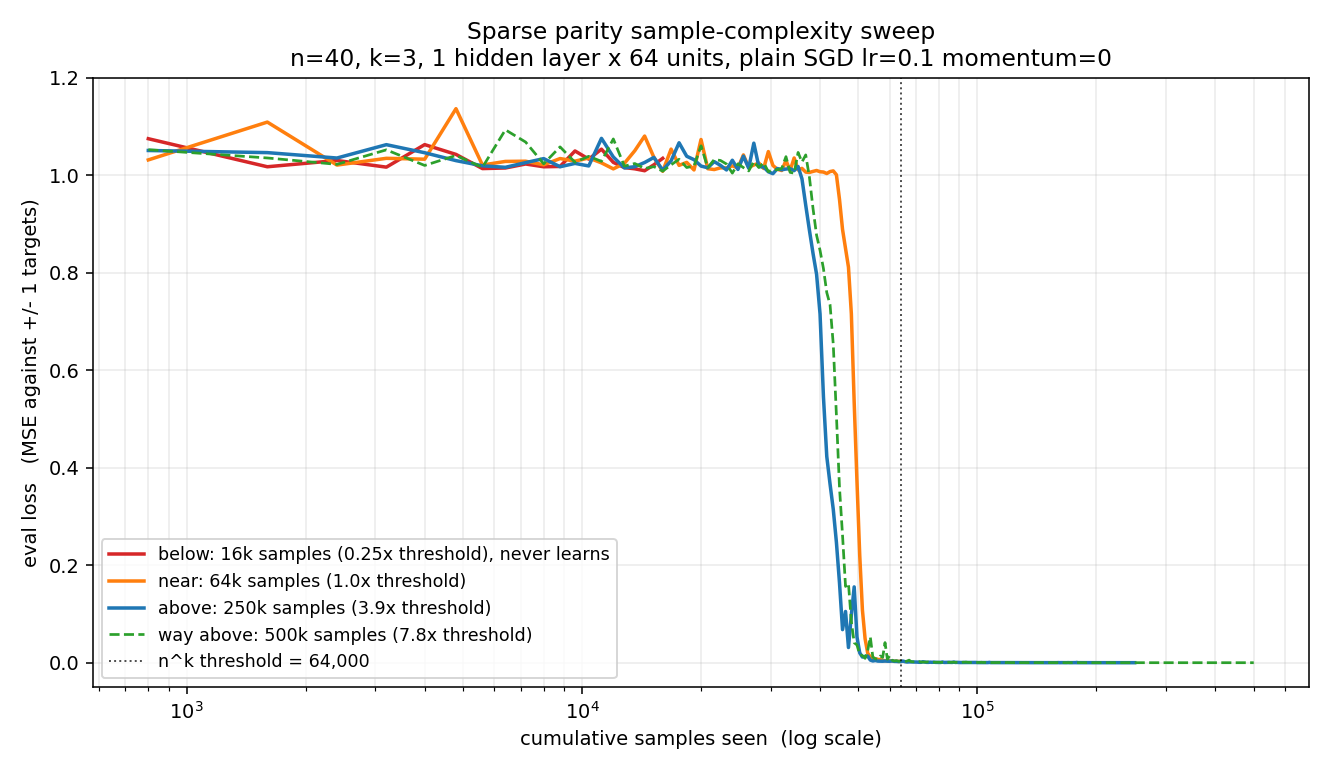
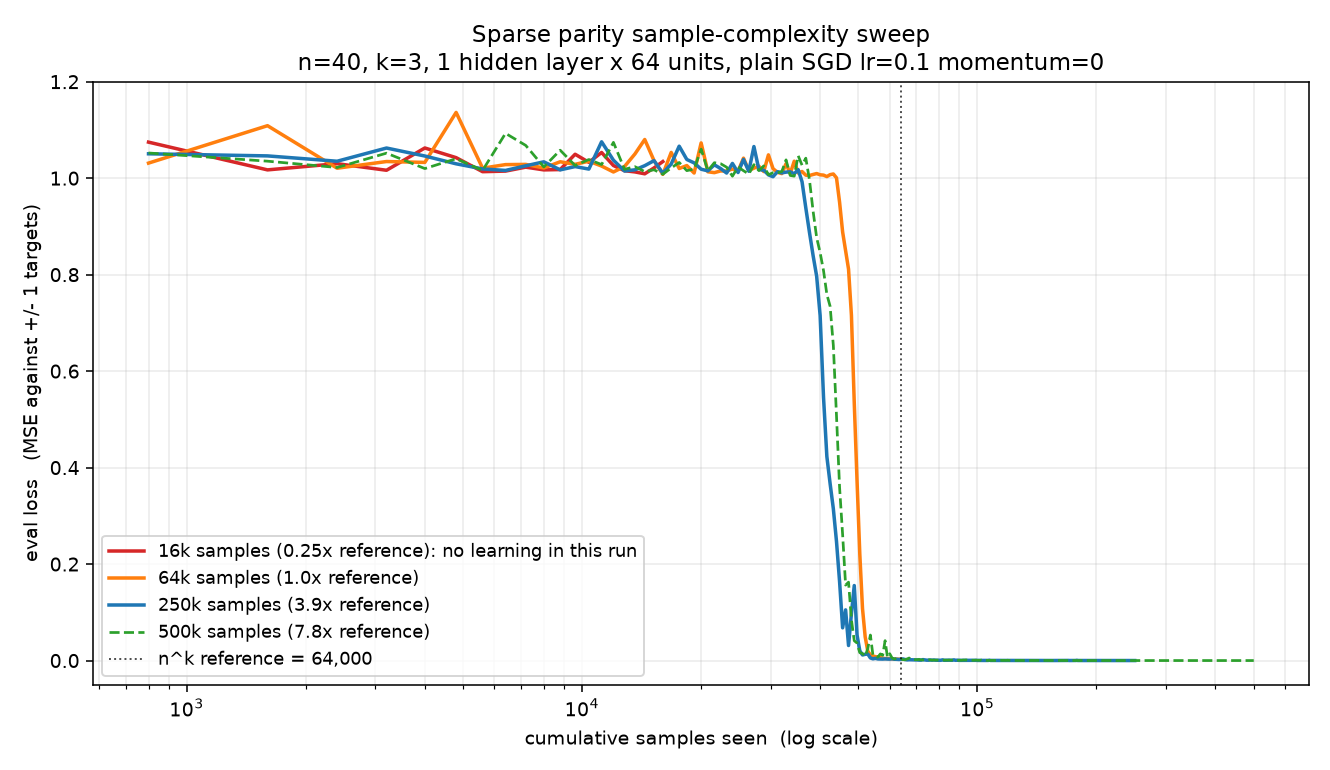
Clarify SQ bound and sparse-parity evidence (#2)
* Clarify SQ bound and sparse-parity evidence

* Describe fixed-pool draws as sampling with replacement

* Align experiment guidance and chart with SQ interpretation

* Keep trainer logic separate from sample-budget fix

* Correct fixed-pool trainer comment

diff --git a/plot.py b/plot.py
@@ -2,8 +2,8 @@
 
     results/sweep_plot.png
         Eval loss vs cumulative samples across the four sweep runs, log-x,
-        with the n^k = 64,000 threshold marked. Shows flat-then-drop above
-        threshold and flat-forever below.
+        with n^k = 64,000 marked as a reference scale. Shows the four
+        observed trajectories, one seed at each budget.
 
     results/fourier_staircase.png
         All 2^k = 8 subset correlations of the network output with the
@@ -25,7 +25,7 @@ import matplotlib.pyplot as plt
 
 
 RESULTS = Path("results")
-THRESHOLD = 40 ** 3  # n^k for the sweep, n=40, k=3.
+REFERENCE_SAMPLES = 40 ** 3  # n^k for the sweep, n=40, k=3.
 
 
 def load_log(path: Path) -> tuple[list[int], list[float]]:
@@ -53,16 +53,16 @@ def plot_sweep(output_path: Path) -> None:
     runs = [
         # (path, label, color, linestyle, linewidth)
         (RESULTS / "sweep_below" / "log.csv",
-         "below: 16k samples (0.25x threshold), never learns",
+         "16k samples (0.25x reference): no learning in this run",
          "#d62728", "-", 1.8),
         (RESULTS / "sweep_near" / "log.csv",
-         "near: 64k samples (1.0x threshold)",
+         "64k samples (1.0x reference)",
          "#ff7f0e", "-", 1.8),
         (RESULTS / "sweep_above" / "log.csv",
-         "above: 250k samples (3.9x threshold)",
+         "250k samples (3.9x reference)",
          "#1f77b4", "-", 1.8),
         (RESULTS / "sweep_way_above" / "log.csv",
-         "way above: 500k samples (7.8x threshold)",
+         "500k samples (7.8x reference)",
          "#2ca02c", "--", 1.4),
     ]
 
@@ -72,8 +72,8 @@ def plot_sweep(output_path: Path) -> None:
         ax.plot(xs, ys, label=label, color=color, linestyle=ls, linewidth=lw)
 
     ax.axvline(
-        THRESHOLD, color="black", linestyle=":", linewidth=1.0, alpha=0.7,
-        label=f"n^k threshold = {THRESHOLD:,}",
+        REFERENCE_SAMPLES, color="black", linestyle=":", linewidth=1.0, alpha=0.7,
+        label=f"n^k reference = {REFERENCE_SAMPLES:,}",
     )
 
     ax.set_xscale("log")

diff --git a/train.py b/train.py
@@ -7,11 +7,10 @@ Key invariants enforced here (see CLAUDE.md gotchas):
   4. Eval batches are always drawn fresh from the true distribution, even in
      fixed-pool mode, so eval loss stays an unbiased test-error estimate.
 
-Fixed-pool mode is a deliberate departure from invariant (1) used only for the
-below-threshold negative-result run. It fixes the number of unique samples the
-model can see (to force a real information-theoretic constraint) while still
-letting us run for many gradient steps, so a persistently flat eval curve is
-strong evidence the SQ floor is real and not just early stopping.
+Fixed-pool mode is a deliberate departure from invariant (1), used for a
+separate multi-pass comparison. It samples repeatedly from a fixed pool of
+rows. The fixed-pool and short online runs have different data and training
+budgets, so they do not isolate the effect of repeated access.
 """
 
 from __future__ import annotations
@@ -128,7 +127,7 @@ def train(cfg: dict) -> None:
     eval_every = int(cfg["eval_every_steps"])
     eval_batch_size = int(cfg["eval_batch_size"])
 
-    # Data source: online (default) or fixed-pool (below-threshold negative run).
+    # Data source: online (default) or fixed-pool (separate multi-pass run).
     fixed_pool_size = int(cfg.get("fixed_pool_size") or 0)
     if fixed_pool_size > 0:
         pool_x, pool_y = sample_batch(train_rng, n, S, fixed_pool_size)

diff --git a/README.md b/README.md
@@ -1,44 +1,43 @@
 # Sparse Parity Learning Near the Computational Limit
 
 A small MLP trained with plain SGD on a k-sparse parity function shows a
-sharp sample-complexity phase transition tied to a known statistical-query
-lower bound. Below roughly `n^k` independent samples of single-pass SGD, the
-function is not learnable at all: not "hasn't learned yet", but a genuine
-information-theoretic floor. This is a replication of Barak, Edelman, Goel,
-Kakade, Malach, Zhang (2022), plus a Fourier-basis progress measure built
-from scratch for this task that detects the phase transition about
-4,000-6,000 samples before the loss curve does.
+sharp transition in its learning curve. The related statistical-query (SQ)
+lower bound concerns computation in a restricted query model, not an
+information-theoretic sample floor or an exact threshold at `n^k` samples.
+This experiment follows Barak, Edelman, Goel, Kakade, Malach, Zhang (2022)
+and adds a Fourier-basis progress measure for this task that detects a signal
+about 4,000-6,000 samples before the loss curve moves in one run.
 
 ![sample complexity sweep](results/sweep_plot.png)
 
-## What is sparse parity learning, and why does it have a hard floor?
+The figure marks `n^k` as a reference scale, not a proven sample cutoff.
+
+## What is sparse parity learning, and why can it be computationally hard?
 
 A k-sparse parity is defined by picking a fixed unknown subset `S` of size
 `k` from `n` coordinates and setting `y = product of x_i for i in S`, with
 inputs `x` uniform on `{-1, +1}^n`. Only `k` of the `n` coordinates matter,
-but an algorithm that queries only aggregate statistics of the data
-(correlational statistical queries) needs `Omega(n^k)` samples to identify
-`S`. Intuitively, no low-degree Fourier feature of `x` is correlated with
-`y`, since parity is orthogonal to every proper subset of `S`, so an SQ
-learner has no useful directional signal until it inspects a feature that
-touches all `k` relevant coordinates. This is not a "hasn't converged yet"
-situation but an information-theoretic bound on that class of algorithms.
-Single-pass online SGD is approximately a correlational-SQ algorithm and is
-subject to the same `n^k` floor.
+but parity is orthogonal to every other parity under the uniform input
+distribution. In the constant-noise SQ model, this gives a computational
+lower bound of `Omega(n^k)` queries, while the statistical sample limit is
+only on the order of `k log n`. Noiseless parity can also be learned in
+polynomial time by Gaussian elimination. The [source paper](https://proceedings.neurips.cc/paper_files/paper/2022/file/884baf65392170763b27c914087bde01-Paper-Conference.pdf)
+relates SGD's computational scaling to SQ bounds. Neither that result nor
+the four sweep runs here establishes a hard sample threshold for this MLP.
 
 ## Setup
 
 - Task: k-sparse parity, `n = 40`, `k = 3`
 - Secret subset `S = [20, 24, 32]`, picked once from numpy seed 0, hard-coded
   and asserted at the start of every run
-- Theoretical sample threshold `n^k = 64,000`
+- Reference scale `n^k = 64,000` (not an exact sample threshold)
 - Model: 1 hidden-layer MLP, `40 -> 64 -> 1`, ReLU, no output activation,
   about 2,700 parameters
 - Loss: MSE against `+/- 1` targets
 - Optimizer: plain `torch.optim.SGD`, `lr = 0.1`, `momentum = 0`, no weight
   decay, no LR schedule. The trainer rejects any non-SGD optimizer explicitly
-- Sampling: strict online. A fresh batch drawn from the true distribution
-  every step. Never a fixed dataset, never repeated epochs
+- Sampling: the main sweep draws a fresh batch from the true distribution
+  every step; the separate fixed-pool aside reuses training examples
 - Batch size: 32
 - Sample budgets swept: 16,000 (below), 64,000 (near), 250,000 (above),
   500,000 (way above)
@@ -46,34 +45,29 @@ subject to the same `n^k` floor.
 ## Hero result 1: the sample-complexity sweep
 
 The sweep plots eval loss vs cumulative samples on a log x-axis across four
-budgets straddling `n^k`, each with independent seeds so run-to-run variance
-shows up as visible spread rather than a single overlaid curve.
+budgets around the `n^k` reference scale. Each budget uses one seed, so the
+curves show individual trajectories rather than a distribution of outcomes.
 
-- **Below threshold (16k, 0.25x)**: stays completely flat at eval loss ~1.03
-  for the entire run. Never departs from the random-guess baseline. This is
-  the SQ floor showing up as a real negative result: single-pass SGD given
-  fewer than `n^k` independent samples has no information it can use to
-  distinguish the true parity from the other `C(40, 3) = 9,880` possibilities.
-- **Near threshold (64k, 1.0x)**: flat until samples ~44,800, then drops
+- **Short run (16k, 0.25x `n^k`)**: stays near eval loss ~1.03 for the
+  entire run. This is a negative outcome for this seed and training budget;
+  it does not show that learning from fewer than `n^k` samples is impossible.
+- **Near reference scale (64k, 1.0x)**: flat until samples ~44,800, then drops
   through samples ~48k-56k, converged just before the budget ends.
-- **Above threshold (250k, 3.9x)**: flat ends earliest at samples ~36,800,
+- **Longer run (250k, 3.9x)**: flat ends earliest at samples ~36,800,
   drops through samples ~40k-48k, converged by ~54,400, floor by ~160,000.
-- **Way above threshold (500k, 7.8x)**: flat ends around ~38,400, drops
-  through ~40k-52k, converged by ~61,600. Extra budget past ~160k is pure
-  headroom, not an earlier drop. The drop location saturates rather than
-  sliding further as budget grows.
+- **Longest run (500k, 7.8x)**: flat ends around ~38,400, drops
+  through ~40k-52k, converged by ~61,600, and remains near zero loss after
+  ~160k samples.
 
 **Run-to-run scatter**: with independent seeds, the drop midpoint (first
 sample at which eval loss crosses below 0.5) sits at ~41.6k, ~44.8k, and
 ~49.6k across the three learning runs, a ~8,000-sample spread or about 15%
-of the theoretical threshold. This is the natural variance from random init
-and random training draws, reported here rather than averaged away.
+of `n^k`. These are different seeds at different budgets, so the spread
+cannot isolate seed variance from run configuration.
 
-**All three learning runs converge somewhat before the `n^k` threshold**
-(convergence at samples ~54k-62k, below the theoretical 64k). This is
-expected: the SQ lower bound is asymptotic with unspecified constants, so
-the observed transition landing below `n^k` but within a factor of two of
-it is consistent with the bound rather than in tension with it.
+**All three learning runs converge before the `n^k` reference count**
+(at ~54k-62k samples). A single `n`, `k`, and seed per budget cannot test an
+asymptotic SQ scaling law or locate a universal transition point.
 
 | Sample budget | vs `n^k` | Learned? | Flat ends | Drop midpoint | Converged (eval < 0.005) | Final eval |
 |--------------:|:--------:|:--------:|----------:|--------------:|-------------------------:|-----------:|
@@ -101,7 +95,7 @@ Under uniform `+/- 1` inputs these are exactly the Fourier coefficients of
 expect `corr_{full triple} -> 1` and every other subset `-> 0`. The
 interesting question is the temporal ordering during the drop.
 
-What actually happens on the 250k above-threshold run:
+What actually happens on the 250k run:
 
 - The **full triple {20, 24, 32}** correlation (bold red) rises from ~0 to
   ~1.0 across samples 35k-47k. Dominant signal.
@@ -151,26 +145,18 @@ measurable structure in the network output.
 ## An aside: the fixed-pool multi-pass result
 
 For completeness, `configs/aside_fixed_pool.yaml` trains the same MLP but
-restricts the training data to a fixed pool of 25,600 unique samples
-(~0.4x `n^k`) and cycles through them for 78 epochs, or 2,000,000 total
-sample views. Eval is still fresh online. The model reaches essentially
-zero eval loss.
+restricts the training data to a fixed pool of 25,600 sampled rows
+(~0.4x `n^k`) and samples from it with replacement for 2,000,000 total
+sample views, about 78 times the pool size. Eval is still fresh online. The
+model reaches essentially zero eval loss.
 
-This is not a contradiction of the SQ lower bound. The bound applies to
-single-pass correlational-SQ algorithms, which single-pass online SGD
-approximates. Multi-pass SGD over a small fixed pool is a fundamentally
-different algorithm: it is allowed to inspect the same 25,600 rows
-repeatedly and can extract information a single-pass SQ learner cannot.
-Statistically, a fixed pool of 25,600 `+/- 1` samples carries many more
-than the ~13 bits needed to identify one of `C(40, 3) = 9,880` possible
-k=3 parities, so given enough compute over that pool and a small enough
-model (here about 2,700 parameters vs 25,600 pool rows, well
-underparameterized) the network finds the true generator.
-
-This is called out here as a distinct finding, not as the below-threshold
-negative result. The proper below-threshold negative result is `sweep_below`,
-which stays flat because it is strictly single-pass online with fewer than
-`n^k` independent samples.
+This is compatible with the SQ computational lower bound. The fixed-pool run
+has 25,600 sampled training rows and 2,000,000 sample views, while the
+short online run stops after 16,000 fresh examples. Both the data budget and
+the amount of optimization differ, so these runs alone do not identify
+repeated access as the cause of learning. The fixed-pool result also
+illustrates why `n^k` should not be read as an information-theoretic minimum
+number of distinct examples.
 
 Data: `results/aside_fixed_pool/log.csv`.
 
@@ -188,26 +174,24 @@ Data: `results/aside_fixed_pool/log.csv`.
   of indices from `S`. If they do, the hypothesis is supported. If they
   do not, the pair correlations have some other origin, e.g. a distributed
   pair-like signal spread across many units.
-- **Sweep k.** Move from `k = 3` to `k = 4` (threshold `40^4 = 2,560,000`)
-  and check whether the drop still scales as `n^k` and whether the
+- **Sweep k.** Move from `k = 3` to `k = 4` (`40^4 = 2,560,000` as a
+  reference count) and test how the drop location scales and whether the
   low-degree Fourier staircase becomes more pronounced. The classic
   prediction is that larger `k` gives a longer, more visible search phase
   and a wider separation between low-degree and full-degree Fourier signals.
-- **Repeat with Adam** instead of plain SGD. Adam's per-parameter adaptive
-  scaling arguably escapes the strict correlational-SQ framing. If Adam
-  shifts the drop location substantially in either direction, that is
-  direct evidence that adaptivity changes the sample complexity of parity
-  learning in practice, not just wall-clock behavior.
-- **Scale n.** `n = 50, k = 3` gives a threshold of 125,000. `n = 100,
-  k = 3` (as in Barak et al.'s hero figure) gives `10^6` and a much longer
-  visible flat phase.
+- **Repeat with Adam** instead of plain SGD. Compare drop locations across
+  multiple seeds to test whether adaptive updates change the observed
+  training dynamics.
+- **Scale n.** `n = 50, k = 3` gives `n^k = 125,000`; `n = 100,
+  k = 3` gives `n^k = 10^6`. Multiple sizes and seeds would make a scaling
+  claim testable.
 - **Multiple seeds per budget in the sweep** to get error bars on the drop
   location rather than the current single-seed-per-budget summary.
 
 ## Running it
 
 ```bash
-# Sanity check: run above threshold, confirm the flat-then-drop shape appears
+# Sanity check: confirm the flat-then-drop shape appears for this seed
 python3 train.py --config configs/sanity.yaml
 
 # Sweep (independent seeds per run)
@@ -216,7 +200,7 @@ python3 train.py --config configs/sweep_near.yaml
 python3 train.py --config configs/sweep_above.yaml
 python3 train.py --config configs/sweep_way_above.yaml
 
-# Aside: fixed pool of 25.6k samples cycled 78 epochs
+# Aside: 2 million draws with replacement from a fixed pool of 25.6k rows
 python3 train.py --config configs/aside_fixed_pool.yaml
 
 # Fourier tracker: re-runs sweep_above with identical seeds so the model
